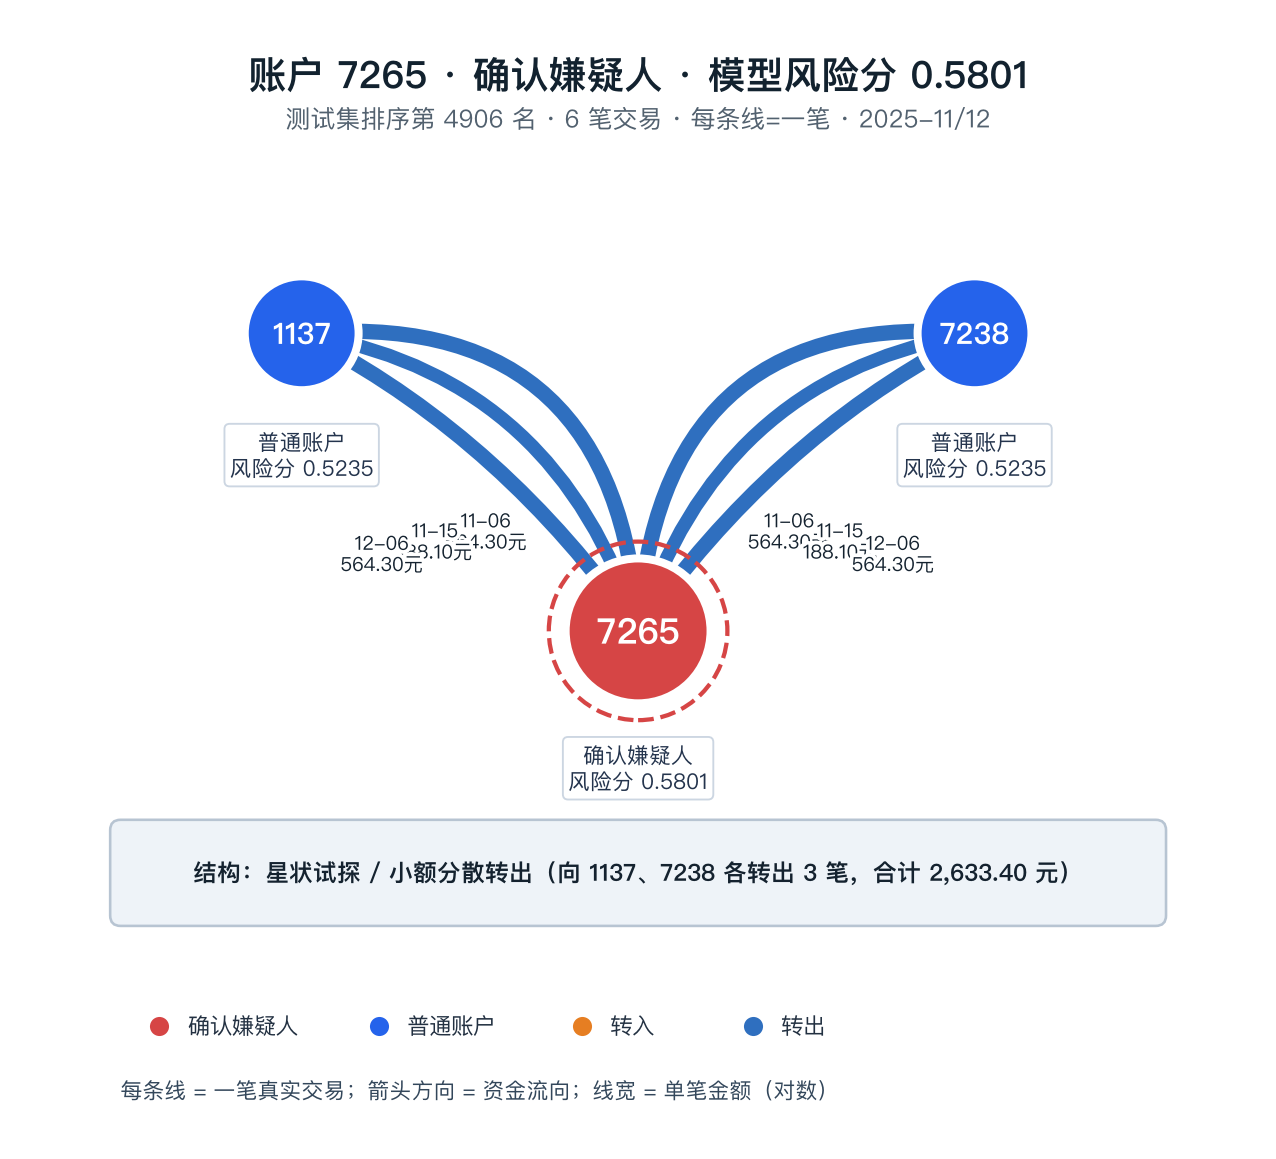
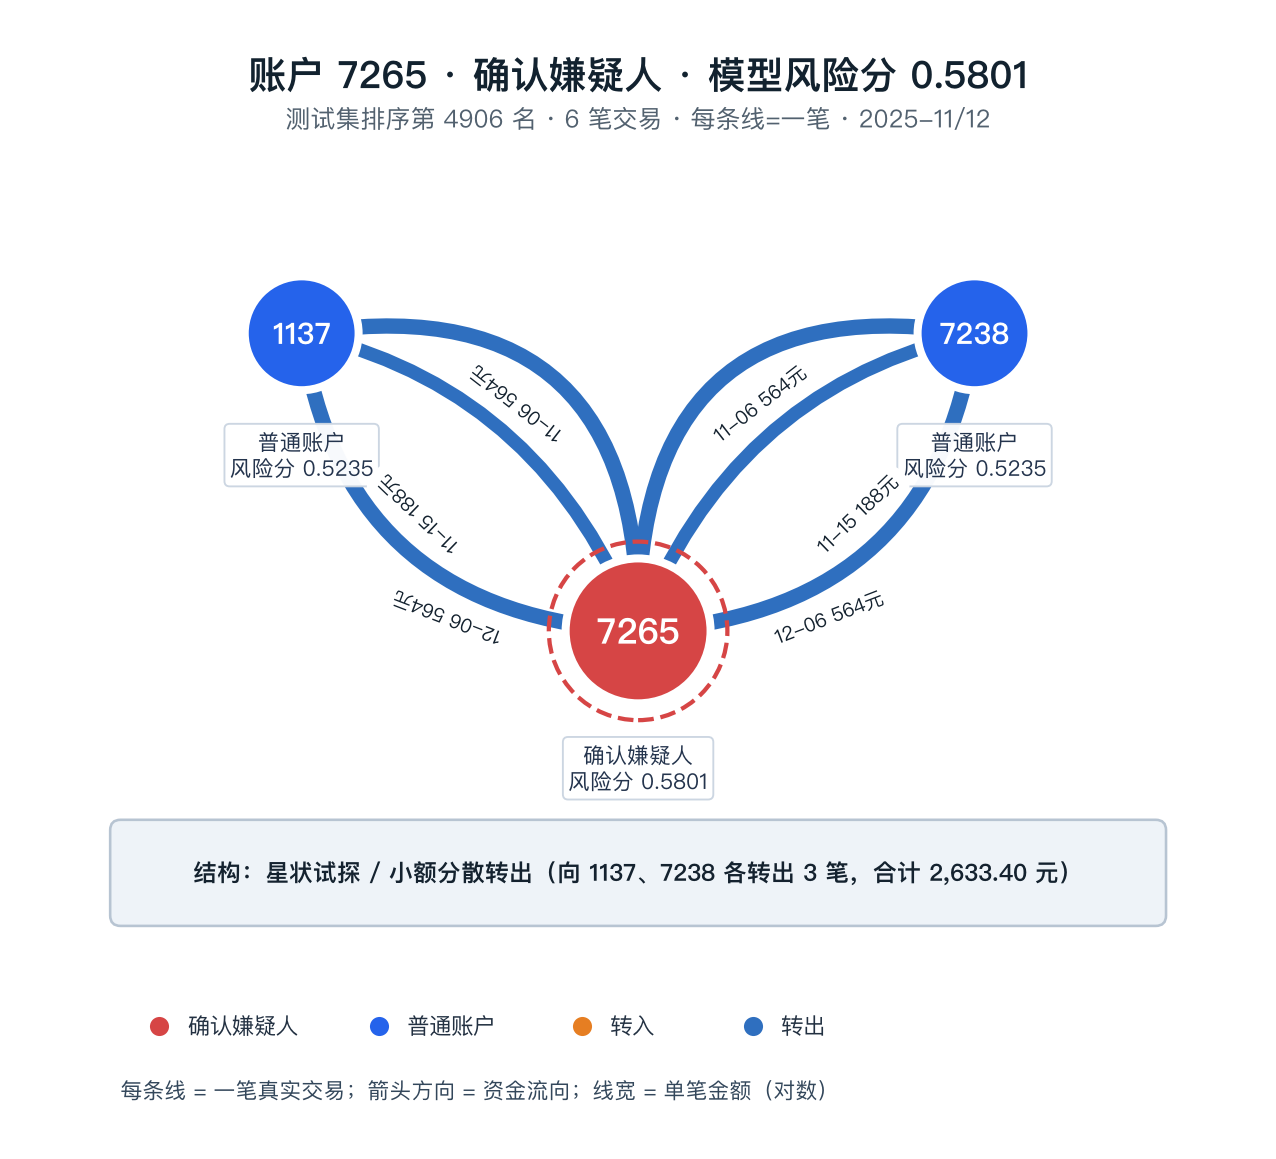
附录D图谱边描述嵌入边线内并自动避让重叠

Changed region(s): [[0.2751, 0.2485, 0.7335, 0.5591], [0.7335, 0.3417, 0.7641, 0.3727], [0.2445, 0.3417, 0.2751, 0.3727]]

diff --git a/outputs/dynamic_graph/index.html b/outputs/dynamic_graph/index.html
@@ -213,7 +213,7 @@
   <main id="reportView" class="view wide"><div class="section-head"><div><h2>辅助研判报告</h2><p>报告同时引用模型风险分、交易统计、关键交易边/路径、图结构或动态特征中的至少两类证据。</p></div></div><div id="reportGrid" class="report-grid"></div><div class="subsection"><h3>报告原文</h3><pre id="rawReport" class="raw-report"></pre></div></main>
   
   <main id="evidenceView" class="view wide">
-    <div class="section-head"><div><h2>典型链路证据（测试集真实子图）</h2><p>仅展示本项目从测试集真实交易边生成的资金图谱，数据截至 2025-12-31，不含未来交易。节点颜色：红=确认嫌疑人，橙=受害人，蓝=其它；橙色箭头=转入，蓝色箭头=转出；每条线=一笔真实交易，线宽=单笔金额对数，边描述直接写在边线上（无白色底框，白色描边保证可读性）。</p></div></div>
+    <div class="section-head"><div><h2>典型链路证据（测试集真实子图）</h2><p>仅展示本项目从测试集真实交易边生成的资金图谱，数据截至 2025-12-31，不含未来交易。节点颜色：红=确认嫌疑人，橙=受害人，蓝=其它；橙色箭头=转入，蓝色箭头=转出；每条线=一笔真实交易，线宽=单笔金额对数，边描述嵌在边线内（沿弧线排版，弧线在文字处断开，无底框）。</p></div></div>
     <div class="evidence-grid">
       <article class="evidence-card"><img src="../../docs/images/appendix_d_4379_loop.png" alt="账户4379闭环回流"><div class="card-body"><h3>账户 4379 · 确认嫌疑人 · 风险分 0.9034</h3><p>2025-11-19 15:37:53 向 10662、10949 各转出 3000 元，15:38:14 原路回流，间隔 21 秒；结构：闭环回流/快进快出。</p></div></article>
       <article class="evidence-card"><img src="../../docs/images/appendix_d_1740_star.png" alt="账户1740星状汇聚"><div class="card-body"><h3>账户 1740 · 确认嫌疑人 · 风险分 0.7460</h3><p>3863、7838 两个固定对手三期重复转入，合计 18828.88 元；结构：星状汇聚/分散入账。</p></div></article>

diff --git a/src/27_render_appendix_d_graphs.py b/src/27_render_appendix_d_graphs.py
@@ -24,7 +24,12 @@ LABEL = LAB.set_index("account_id")["label_text"].to_dict()
 COLOR = {"嫌疑人": "#d64545", "受害人": "#f59e0b", "其它": "#2563eb", "未知": "#7f8c8d"}
 IN_COLOR = "#e67e22"
 OUT_COLOR = "#2f6fbf"
-RAD_SETS = {1: [0.0], 2: [-0.20, -0.46], 3: [-0.12, -0.30, -0.50], 4: [-0.10, -0.24, -0.38, -0.54]}
+RAD_SETS = {
+    1: [0.0],
+    2: [0.42, -0.48],
+    3: [0.40, -0.26, -0.58],
+    4: [0.28, -0.34, 0.62, -0.72],
+}
 
 
 def raw_edges(account_id: int) -> list[dict]:
@@ -54,6 +59,17 @@ def bezier(p1: tuple, p2: tuple, rad: float, t: float) -> tuple[float, float]:
     return bx, by
 
 
+def bezier_tangent(p1: tuple, p2: tuple, rad: float, t: float) -> tuple[float, float]:
+    """返回二次贝塞尔曲线在 t 处的切向量。"""
+    x1, y1 = p1
+    x2, y2 = p2
+    dx, dy = x2 - x1, y2 - y1
+    cx, cy = (x1 + x2) / 2 - rad * dy, (y1 + y2) / 2 + rad * dx
+    tx = 2 * (1 - t) * (cx - x1) + 2 * t * (x2 - cx)
+    ty = 2 * (1 - t) * (cy - y1) + 2 * t * (y2 - cy)
+    return tx, ty
+
+
 def draw_node(ax, pos: tuple, aid: int, is_root: bool = False) -> None:
     x, y = pos
     label = LABEL.get(aid, "未知")
@@ -73,23 +89,24 @@ def draw_node(ax, pos: tuple, aid: int, is_root: bool = False) -> None:
                                                  ec="#cbd5e1", lw=0.8, alpha=0.97))
 
 
-def draw_edges(ax, pos, edges: list[dict], root: int, label_fn, fontsize: float) -> None:
+def draw_edges(ax, fig, pos, edges: list[dict], root: int, label_fn, fontsize: float) -> None:
     pair_index = defaultdict(int)
     pair_count = defaultdict(int)
     for e in edges:
         pair_count[(min(e["src"], e["dst"]), max(e["src"], e["dst"]))] += 1
     max_amount = max(e["amount"] for e in edges) if edges else 1.0
     max_log = math.log1p(max_amount)
-    left_id = min(pos, key=lambda k: pos[k][0])
+    renderer = fig.canvas.get_renderer()
+    inv = ax.transData.inverted()
+    placed_boxes = []
     for e in edges:
         u, v = e["src"], e["dst"]
         p1, p2 = pos[u], pos[v]
         pair = (min(u, v), max(u, v))
         idx = pair_index[pair]
         pair_index[pair] += 1
-        side = -1 if (u == left_id or v == left_id) else 1
-        rad = side * RAD_SETS[pair_count[pair]][idx]
-        t = 0.40 + 0.07 * idx
+        # RAD_SETS 的符号按“弦的上方”约定，绘制时根据边方向翻转，保证同对手的多条边分居弦两侧
+        rad = RAD_SETS[pair_count[pair]][idx] * (1.0 if p2[0] >= p1[0] else -1.0)
         incoming = v == root
         color = IN_COLOR if incoming else OUT_COLOR
         width = 2.0 + 4.5 * math.log1p(e["amount"]) / max_log
@@ -99,10 +116,61 @@ def draw_edges(ax, pos, edges: list[dict], root: int, label_fn, fontsize: float)
                                 arrowstyle="-|>", mutation_scale=24, lw=width,
                                 color=color, shrinkA=ru, shrinkB=rv, zorder=4)
         ax.add_patch(arrow)
-        lx, ly = bezier(p1, p2, rad, t)
-        ax.text(lx, ly, label_fn(e, incoming), ha="center", va="center", fontsize=fontsize,
-                linespacing=1.12, color="#14222f", zorder=8,
-                path_effects=[pe.withStroke(linewidth=3.2, foreground="white")])
+        txt = label_fn(e, incoming)
+        placed = None
+        for t, offset in label_candidates():
+            lx, ly = bezier(p1, p2, rad, t)
+            tx, ty = bezier_tangent(p1, p2, rad, t)
+            norm = math.hypot(tx, ty)
+            lx += offset * (-ty / norm)
+            ly += offset * (tx / norm)
+            angle = math.degrees(math.atan2(ty, tx))
+            tb = ax.text(lx, ly, txt, ha="center", va="center", fontsize=fontsize,
+                         linespacing=1.12, color="#14222f", zorder=8,
+                         rotation=angle, rotation_mode="anchor",
+                         path_effects=[pe.withStroke(linewidth=width + 3.5, foreground="white")])
+            bb = tb.get_window_extent(renderer)
+            if not overlaps_node(bb, inv, pos, root) and not overlaps_text(bb, placed_boxes):
+                placed = tb
+                break
+            tb.remove()
+        if placed is None:
+            raise RuntimeError(f"无法为账户 {root} 的边放置标签: {txt}")
+        placed_boxes.append(placed.get_window_extent(renderer))
+
+
+def label_candidates() -> list[tuple[float, float]]:
+    """沿弧线从中间向两端扩展，必要时沿法线小幅偏移，避免文字重叠。"""
+    out = []
+    for offset in (0.0, 0.32, -0.32, 0.64, -0.64, 0.98, -0.98, 1.35, -1.35):
+        for step in range(12):
+            delta = 0.04 * (step + 1)
+            if step % 2 == 0:
+                out.append((0.50 + delta, offset))
+            else:
+                out.append((0.50 - delta, offset))
+        out.append((0.50, offset))
+    return out
+
+
+def overlaps_node(bb, inv, pos: dict, root: int) -> bool:
+    pts = inv.transform([(bb.x0, bb.y0), (bb.x1, bb.y0), (bb.x1, bb.y1), (bb.x0, bb.y1)])
+    for aid, (cx, cy) in pos.items():
+        radius = 0.66 if aid == root else 0.54
+        margin = 0.16
+        for px, py in pts:
+            if math.hypot(px - cx, py - cy) < radius + margin:
+                return True
+    return False
+
+
+def overlaps_text(bb, placed_boxes) -> bool:
+    pad = 4
+    for other in placed_boxes:
+        if not (bb.x1 + pad <= other.x0 or other.x1 + pad <= bb.x0
+                or bb.y1 + pad <= other.y0 or other.y1 + pad <= bb.y0):
+            return True
+    return False
 
 
 def draw_frame(ax, title: str, subtitle: str, structure: str) -> None:
@@ -133,7 +201,8 @@ def render(root: int, positions: dict, title: str, subtitle: str, structure: str
     ax.set_ylim(-3.95, 4.75)
     ax.set_aspect("equal")
     ax.axis("off")
-    draw_edges(ax, positions, edges, root, label_fn, fontsize)
+    fig.canvas.draw()
+    draw_edges(ax, fig, positions, edges, root, label_fn, fontsize)
     for aid, p in positions.items():
         draw_node(ax, p, aid, is_root=(aid == root))
     draw_frame(ax, title, subtitle, structure)
@@ -157,7 +226,7 @@ def main() -> None:
         "测试集排序第 814 名 · 4 笔交易 · 每条线=一笔 · 2025-11-19",
         "结构：闭环回流 / 快进快出（15:37:53 转出 3000×2 → 15:38:14 原路回流，间隔 21 秒）",
         "docs/images/appendix_d_4379_loop.png",
-        lambda e, inc: f"{e['time'].strftime('%m-%d %H:%M:%S')}\n{e['amount']:,.2f}元",
+        lambda e, inc: f"{e['time'].strftime('%H:%M:%S')} {e['amount']:,.0f}元",
     )
     render(
         1740,
@@ -166,7 +235,7 @@ def main() -> None:
         "测试集排序第 2827 名 · 6 笔交易 · 每条线=一笔 · 2025-07/11/12",
         "结构：星状汇聚 / 分散入账（3863、7838 各 3 笔转入，合计 18,828.88 元）",
         "docs/images/appendix_d_1740_star.png",
-        lambda e, inc: f"{e['time'].strftime('%m-%d')}\n{e['amount']:,.2f}元",
+        lambda e, inc: f"{e['time'].strftime('%m-%d')} {e['amount']:,.0f}元",
     )
     render(
         7265,
@@ -175,7 +244,7 @@ def main() -> None:
         "测试集排序第 4906 名 · 6 笔交易 · 每条线=一笔 · 2025-11/12",
         "结构：星状试探 / 小额分散转出（向 1137、7238 各转出 3 笔，合计 2,633.40 元）",
         "docs/images/appendix_d_7265_star.png",
-        lambda e, inc: f"{e['time'].strftime('%m-%d')}\n{e['amount']:,.2f}元",
+        lambda e, inc: f"{e['time'].strftime('%m-%d')} {e['amount']:,.0f}元",
     )
     render(
         9928,
@@ -184,7 +253,7 @@ def main() -> None:
         "测试集排序第 73 名 · 8 笔交易 · 每条线=一笔 · 2025-07/08",
         "结构：双向闭环回流 / 资金归集（转入 4 笔合计 69 万、转出 4 笔合计 180 万）",
         "docs/images/appendix_d_9928_flow.png",
-        lambda e, inc: f"{e['time'].strftime('%m-%d')} {'转入' if inc else '转出'}\n{fmt_amount(e['amount'])}元",
+        lambda e, inc: f"{e['time'].strftime('%m-%d')} {'入' if inc else '出'} {fmt_amount(e['amount'])}",
         fontsize=7.8,
     )
 

diff --git a/src/09_dynamic_graph_viz.py b/src/09_dynamic_graph_viz.py
@@ -1075,7 +1075,7 @@ EVIDENCE_CSS = """
 
 EVIDENCE_VIEW = """
   <main id="evidenceView" class="view wide">
-    <div class="section-head"><div><h2>典型链路证据（测试集真实子图）</h2><p>仅展示本项目从测试集真实交易边生成的资金图谱，数据截至 2025-12-31，不含未来交易。节点颜色：红=确认嫌疑人，橙=受害人，蓝=其它；橙色箭头=转入，蓝色箭头=转出；每条线=一笔真实交易，线宽=单笔金额对数，边描述直接写在边线上（无白色底框，白色描边保证可读性）。</p></div></div>
+    <div class="section-head"><div><h2>典型链路证据（测试集真实子图）</h2><p>仅展示本项目从测试集真实交易边生成的资金图谱，数据截至 2025-12-31，不含未来交易。节点颜色：红=确认嫌疑人，橙=受害人，蓝=其它；橙色箭头=转入，蓝色箭头=转出；每条线=一笔真实交易，线宽=单笔金额对数，边描述嵌在边线内（沿弧线排版，弧线在文字处断开，无底框）。</p></div></div>
     <div class="evidence-grid">
       <article class="evidence-card"><img src="../../docs/images/appendix_d_4379_loop.png" alt="账户4379闭环回流"><div class="card-body"><h3>账户 4379 · 确认嫌疑人 · 风险分 0.9034</h3><p>2025-11-19 15:37:53 向 10662、10949 各转出 3000 元，15:38:14 原路回流，间隔 21 秒；结构：闭环回流/快进快出。</p></div></article>
       <article class="evidence-card"><img src="../../docs/images/appendix_d_1740_star.png" alt="账户1740星状汇聚"><div class="card-body"><h3>账户 1740 · 确认嫌疑人 · 风险分 0.7460</h3><p>3863、7838 两个固定对手三期重复转入，合计 18828.88 元；结构：星状汇聚/分散入账。</p></div></article>

diff --git a/docs/附录D_资金图谱可视化与缺边审计.md b/docs/附录D_资金图谱可视化与缺边审计.md
@@ -28,7 +28,7 @@
 
 ## 图例与口径说明
 
-节点颜色：**红色=确认嫌疑人，橙色=受害人，蓝色=其它**；节点下方显示账户 ID、标签与模型风险分；橙色箭头=转入，蓝色箭头=转出；**每条线=一笔真实交易**，线宽=单笔金额（对数）。边描述直接写在边线上（沿弧线放置，无白色底框），以白色描边保证可读性，显示单笔时间与金额；重复交易使用不同弧度错开，避免文字遮挡节点。所有图谱只使用截至测试期截止（2025-12-31）的历史交易，未使用未来交易。
+节点颜色：**红色=确认嫌疑人，橙色=受害人，蓝色=其它**；节点下方显示账户 ID、标签与模型风险分；橙色箭头=转入，蓝色箭头=转出；**每条线=一笔真实交易**，线宽=单笔金额（对数）。边描述嵌在边线内：文字沿弧线方向排版，无底框，弧线在文字处断开、以白色描边保证可读性，显示单笔时间与金额；同一对手的重复交易分居弧线两侧并用不同弧度错开，避免文字遮挡节点。所有图谱只使用截至测试期截止（2025-12-31）的历史交易，未使用未来交易。
 
 ## 数据局限与缺边审计
 
